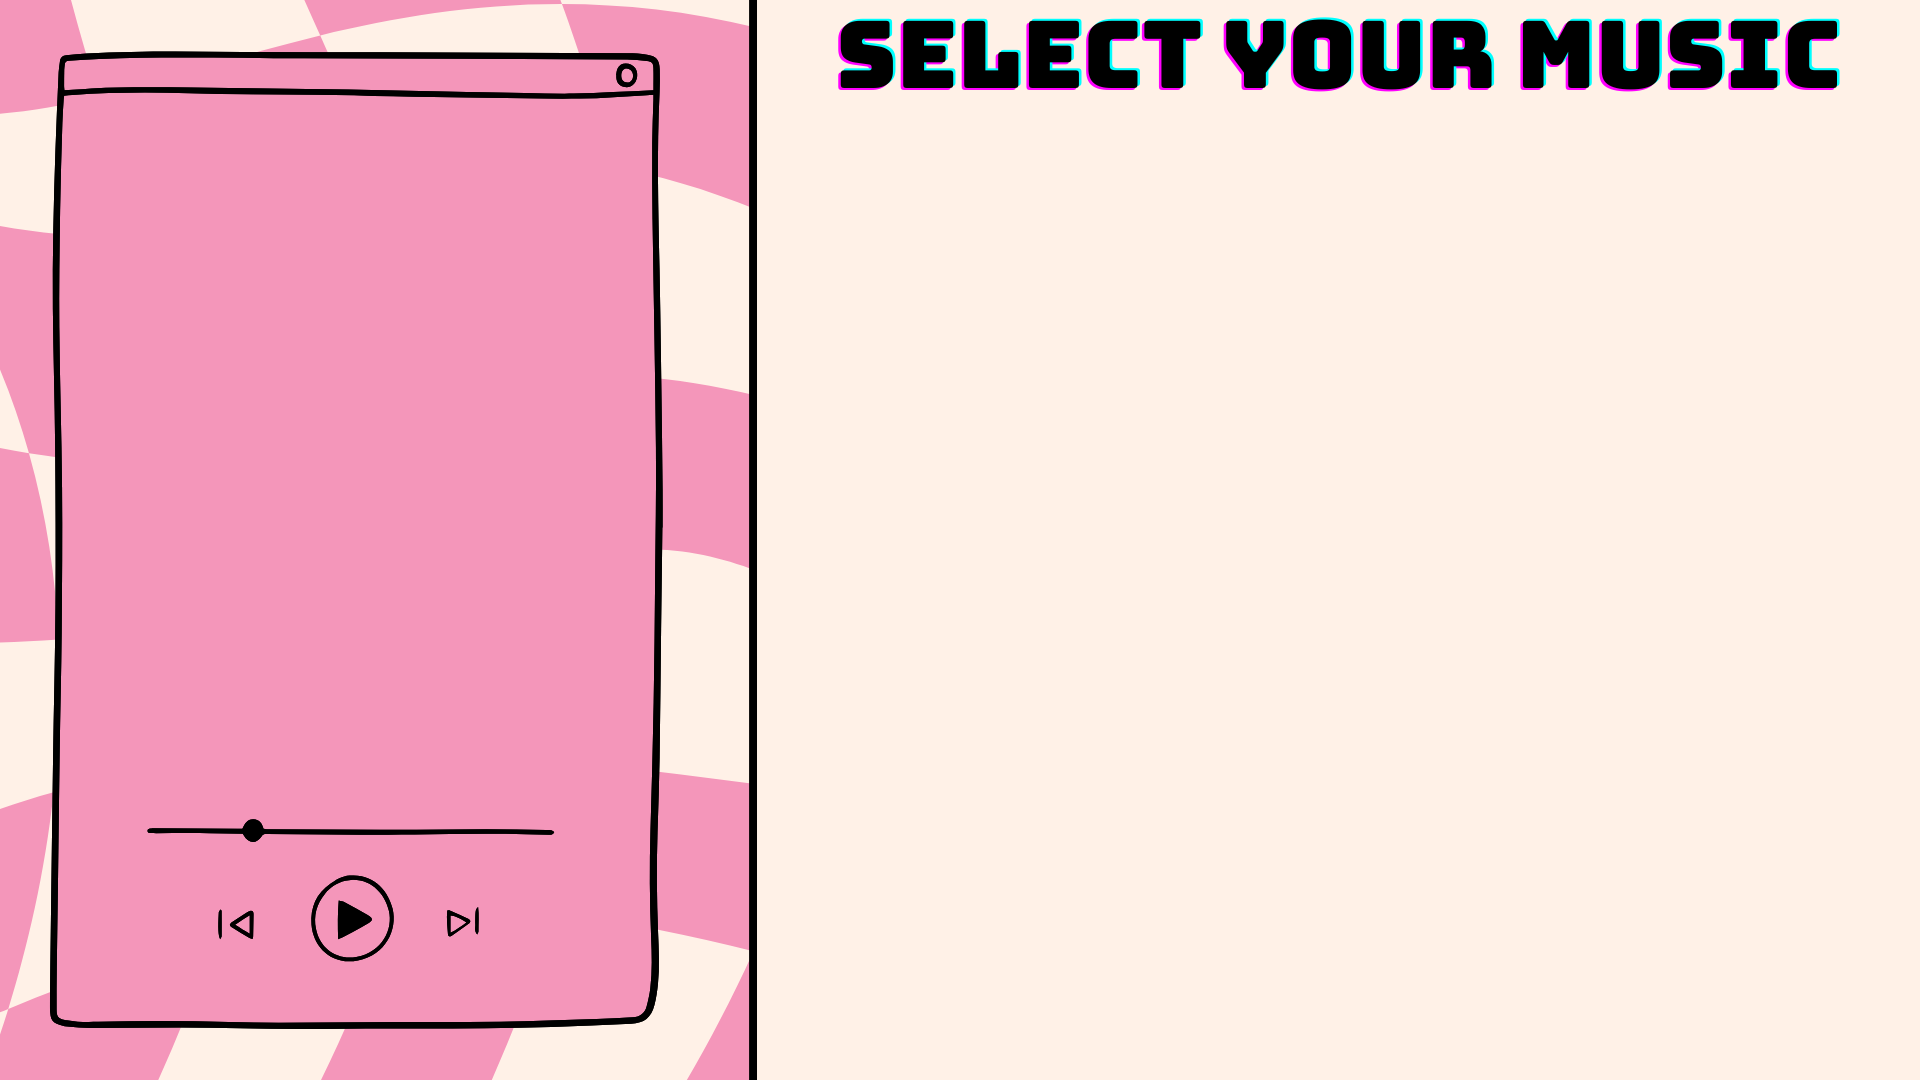
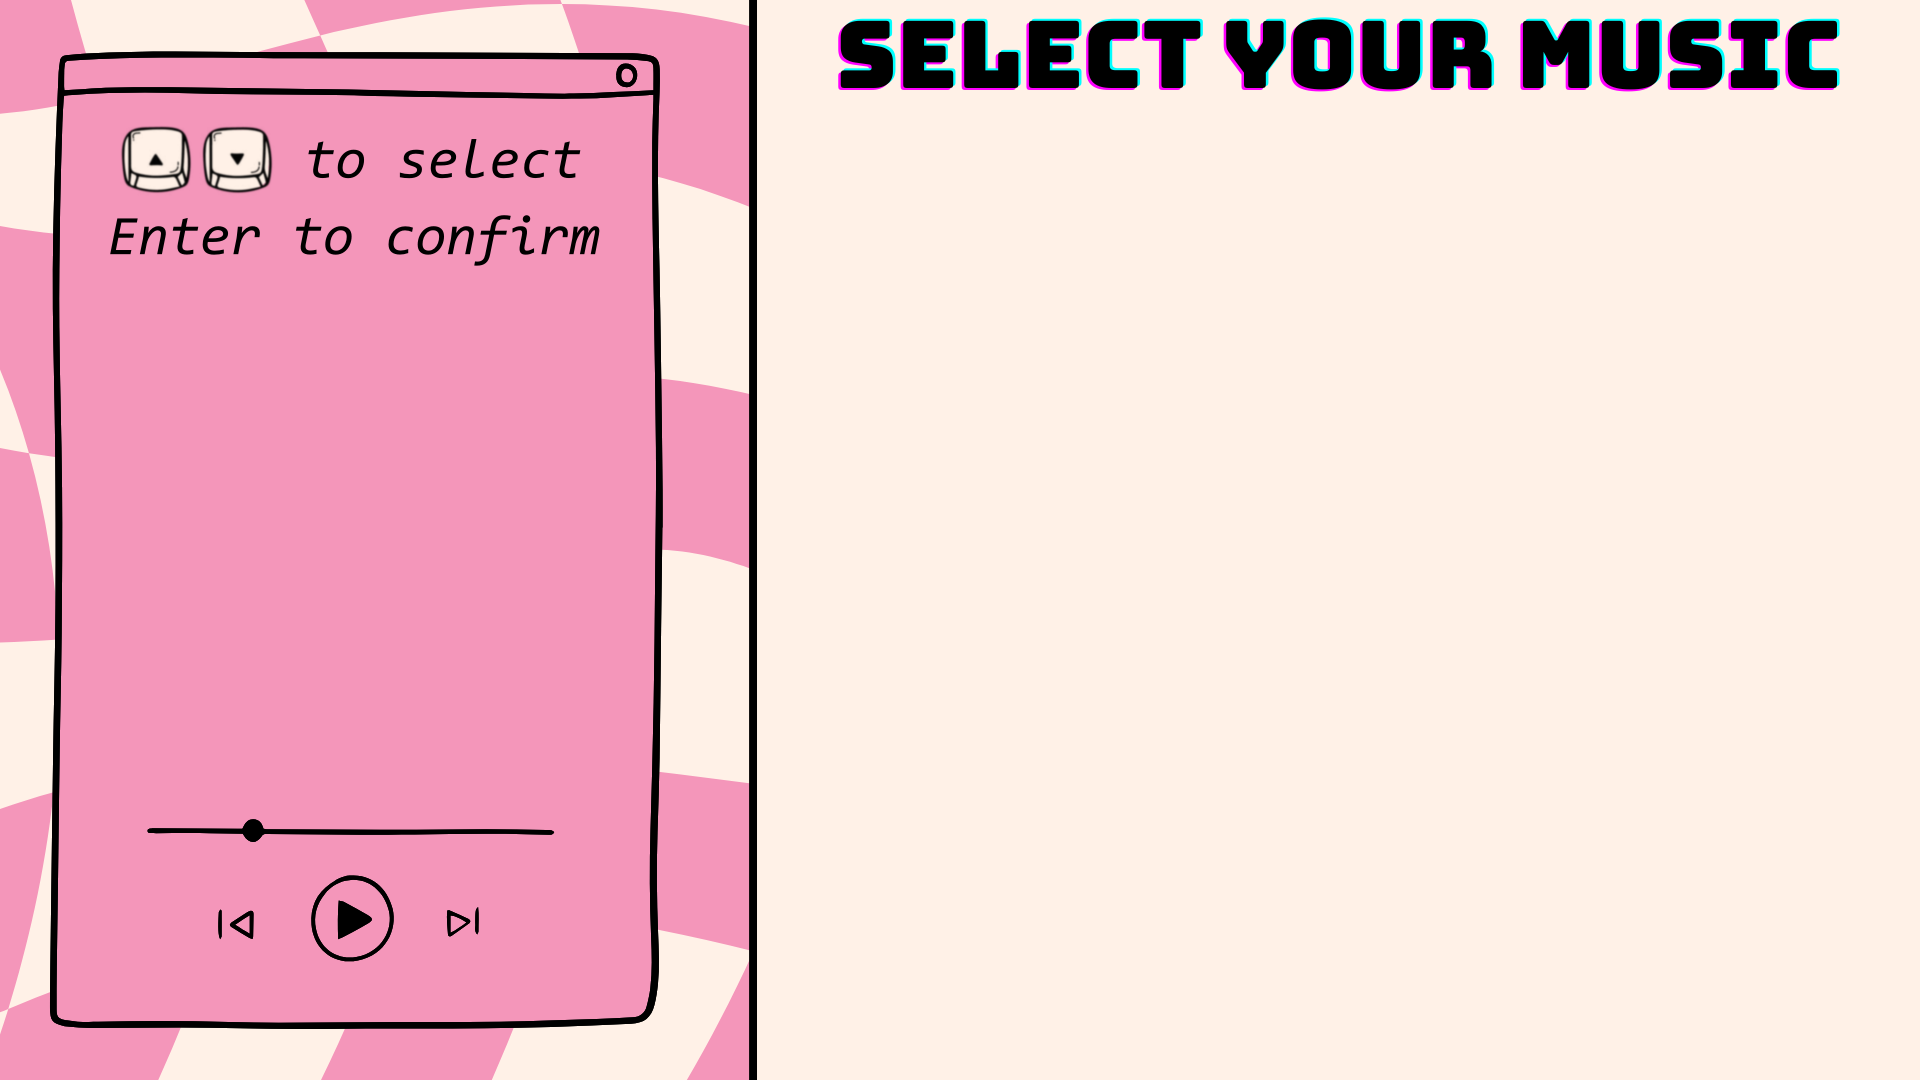
Mejora del fondo de selección

Changed region(s): [[0.0625, 0.0917, 0.3125, 0.2444]]

diff --git a/main.py b/main.py
@@ -156,8 +156,6 @@ class RhythmGame:
 
                 text_rect = text.get_rect(center=(890, start_y + i * spacing + 20))
                 self.screen.blit(text, text_rect)
-            self.screen.blit(self.font.render(u"Arrows to select", True, (80,80,80)), (SCREEN_WIDTH/14, SCREEN_HEIGHT/2+80))
-            self.screen.blit(self.font.render("Enter to confirm", True, (80,80,80)), (SCREEN_WIDTH/14, SCREEN_HEIGHT/2+130))
             pygame.display.flip()
 
             for event in pygame.event.get():
